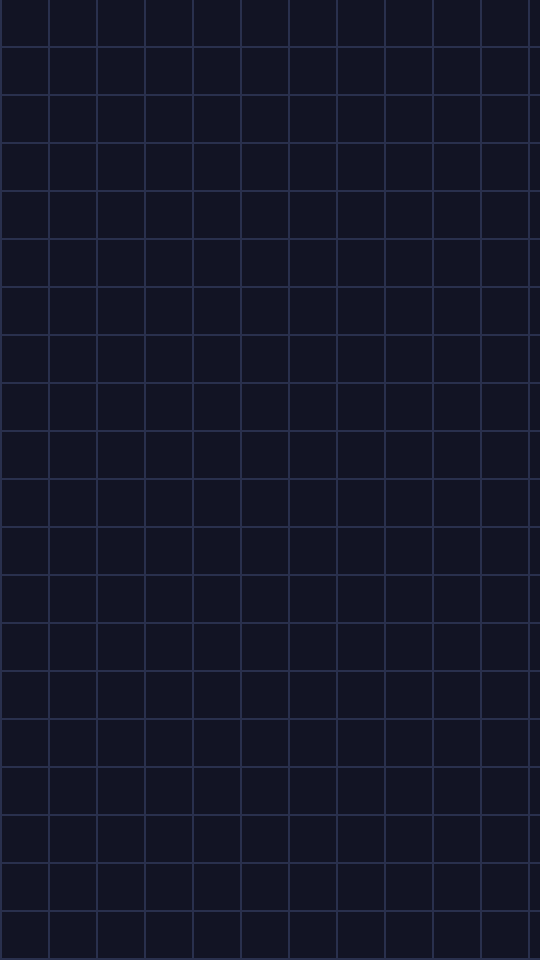
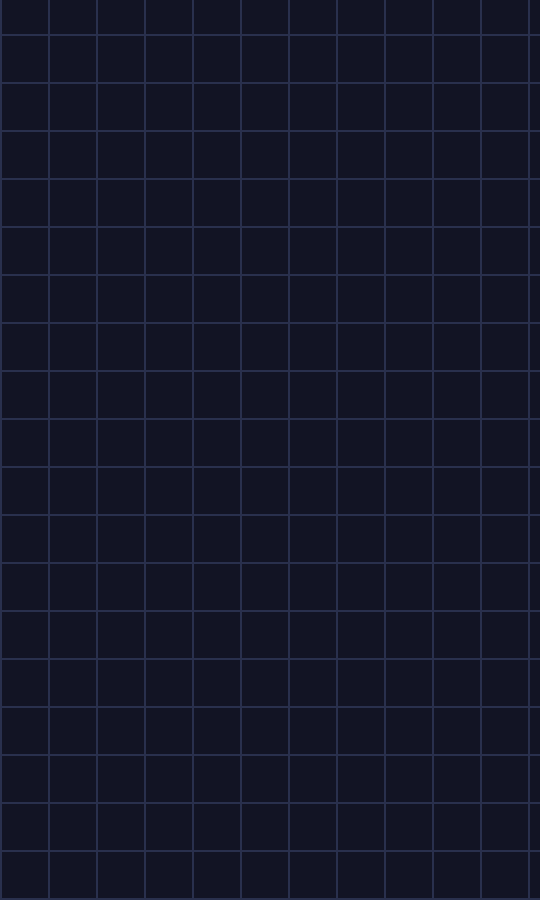
260912_맵을 하나로 + 가림막과 보상 이미지 크기를 처음부터 맞춤
1. 좁은 맵(2번) 삭제

쓰는 곳이 없어진 Tex_Shape_02와 그 생성 / 검증 / Addressable 등록도 함께 정리했다.
모양 마스크 기능 자체는 strShapeMask로 그대로 남아 있다.

해금 규칙은 표에 맵이 몇 개 실렸는지와 무관해야 하므로,
테스트가 두 줄짜리 표를 직접 만들어 쓰도록 바꿨다(Make_TwoMapTable).
맵이 하나가 됐다고 순차 해금이 검증에서 빠지면 안 된다.

2. 두 장의 크기를 처음부터 같게

가림막과 보상은 둘 다 그리드 크기로 늘려 깔린다. 그런데 배치 이미지가 540x960이고
그리드는 60x100칸(비율 0.6)이라 두 장 모두 눌린 채로 깔리고 있었다.
둘이 똑같이 눌려서 한쪽만 이상해 보이지는 않지만, 그림이 계속 어색했다.

배치 이미지를 그리드에서 만들어 내도록 바꿨다 — TEX_PIXEL_PER_CELL(9) 기준으로
60x100칸이면 540x900이고, 칸 하나가 정확히 9x9 픽셀이다.
늘리지도 줄이지도 않고, 사본을 찍을 때 나누어떨어지지 않아 생기는 줄도 없다.

비율이 어긋나면 눈으로 찾기 어려우므로 Validate Assets가 숫자로 잡게 했다.
실제 아트를 발주할 때도 이 비율만 지키면 된다.

검증 : 에셋 검증 통과 / PASS 283 FAIL 0

diff --git a/Assets/Editor/CProtoSetup.cs b/Assets/Editor/CProtoSetup.cs
@@ -34,7 +34,8 @@ namespace Client
         {
             "Tex_Mask_01", "Tex_Reward_01", "Tex_Reward_02", "Tex_Reward_03",
         };
-        private const string TEX_SHAPE_02 = "Tex_Shape_02";      // MapInfo.csv 2번 맵의 모양 마스크
+        // 260912_배치 이미지의 셀당 픽셀 수. 실제 아트가 들어오면 이 비율만 지키면 된다.
+        private const int TEX_PIXEL_PER_CELL = 9;
 
         // 260904_CSV 테이블. 파일명이 곧 Client.CCSVData_<파일명> 클래스 이름이다.
         private static readonly string[] ARR_CSV = { "EnemyInfo", "MapInfo", "UpgradeInfo", "SkillInfo", "EquipInfo" };
@@ -159,6 +160,7 @@ namespace Client
             iFail += Validate_CsvTables();
             iFail += Validate_LayerTextures();
             iFail += Validate_GameConfig();
+            iFail += Validate_LayerAspect();
 
             if (iFail == 0)
                 Debug.Log("[CProtoSetup] 에셋 검증 통과 — 프리팹 / 스프라이트 / CSV / Addressable 정상");
@@ -297,7 +299,6 @@ namespace Client
             for (int i = 0; i < ARR_LAYER_TEX.Length; ++i)
                 iFail += Validate_Texture(ARR_LAYER_TEX[i]);
 
-            iFail += Validate_Texture(TEX_SHAPE_02);
             return iFail;
         }
 
@@ -322,6 +323,35 @@ namespace Client
             }
 
             return iFail + Validate_AddressableEntry(strPath, strName, CAddressableLabel.TEXTURE);
+        }
+
+        // 260912_웨이브 이미지는 그리드 비율과 같아야 한다.
+        // 가림막과 보상은 둘 다 그리드 크기로 늘려 깔리므로, 원본 비율이 다르면 그림이 눌린다.
+        // 둘 다 똑같이 눌리기 때문에 '한쪽만 이상하다'로는 안 보이고 그냥 그림이 어색해진다 —
+        // 눈으로 찾기 어려운 종류라 여기서 숫자로 잡아 준다.
+        private static int Validate_LayerAspect()
+        {
+            CMapInfo cMapInfo = Load_MapInfo(1);
+            float fGridAspect = (float)cMapInfo.iGridWidth / cMapInfo.iGridHeight;
+
+            int iFail = 0;
+            for (int i = 0; i < ARR_LAYER_TEX.Length; ++i)
+            {
+                Texture2D tex = AssetDatabase.LoadAssetAtPath<Texture2D>($"{DIR_ART}/{ARR_LAYER_TEX[i]}.png");
+                if (tex == null)
+                    continue;   // 존재 여부는 Validate_LayerTextures가 본다
+
+                float fTexAspect = (float)tex.width / tex.height;
+                if (Mathf.Abs(fTexAspect - fGridAspect) <= 0.01f)
+                    continue;
+
+                Debug.LogError($"  FAIL  {ARR_LAYER_TEX[i]} 비율이 그리드와 다릅니다 "
+                             + $"({tex.width}x{tex.height} = {fTexAspect:F3} / 그리드 {fGridAspect:F3}). "
+                             + "그림이 눌려 보입니다.");
+                ++iFail;
+            }
+
+            return iFail;
         }
 
         // 260905_옵션 에셋. 없어도 게임은 기본값으로 돌지만, 값을 바꿔도 반영이 안 되는
@@ -440,13 +470,18 @@ namespace Client
             Write_Png(PATH_TEX_ENEMY, Make_CircleTexture(BODY_SIZE, Color.white));
             Import_AsSprite(PATH_TEX_ENEMY, BODY_SIZE);
 
-            // 배경: 실제 보상 카드 이미지가 들어갈 자리. 점령 시 드러나는 게 보이도록 알록달록하게.
-            const int BG_W = 540;
-            const int BG_H = 960;
-            Write_Png(PATH_TEX_BG, Make_RewardPlaceholder(BG_W, BG_H));
+            // 260912_배치 이미지는 그리드 비율에 정확히 맞춘다.
+            // 가림막과 보상은 둘 다 그리드 크기로 늘려 깔리므로(CGridRenderer.Fit_ToGrid),
+            // 원본 비율이 그리드와 다르면 그림이 눌려 보인다.
+            // 칸 하나가 정수 픽셀이 되게 맞추면 사본을 찍을 때 줄이 생기지도 않는다.
+            CMapInfo cMapInfo = Load_MapInfo(1);
+            int iBgW = cMapInfo.iGridWidth  * TEX_PIXEL_PER_CELL;
+            int iBgH = cMapInfo.iGridHeight * TEX_PIXEL_PER_CELL;
+
+            Write_Png(PATH_TEX_BG, Make_RewardPlaceholder(iBgW, iBgH));
             Import_AsSprite(PATH_TEX_BG, 100, true);
 
-            Create_LayerTextures(BG_W, BG_H);
+            Create_LayerTextures(iBgW, iBgH);
 
             // 260904_기믹 소환물. 탄은 작고 밝게, 거미줄은 성기게 비치도록 반투명하게.
             Write_Png(PATH_TEX_PROJECTILE, Make_CircleTexture(32, new Color(1f, 0.55f, 0.2f)));
@@ -536,10 +571,6 @@ namespace Client
                 // 가림막은 런타임에 픽셀을 읽어 마스크로 다시 찍으므로 Read/Write가 반드시 켜져 있어야 한다.
                 Import_AsSprite(strPath, 100, true);
             }
-
-            string strShapePath = $"{DIR_ART}/{TEX_SHAPE_02}.png";
-            Write_Png(strShapePath, Make_ShapeMask(iWidth, iHeight));
-            Import_AsSprite(strShapePath, 100, true);
         }
 
         /// <summary> 1웨이브를 덮는 마스크 — 격자 무늬가 옅게 깔린 어두운 막. </summary>
@@ -590,29 +621,6 @@ namespace Client
 
                     cColor.a = 1f;
                     tex.SetPixel(x, y, cColor);
-                }
-            }
-
-            tex.Apply();
-            return tex;
-        }
-
-        /// <summary> 맵 모양 마스크 예시 — 가운데를 세로로 잘라낸 모래시계 형태. </summary>
-        private static Texture2D Make_ShapeMask(int iWidth, int iHeight)
-        {
-            Texture2D tex = new Texture2D(iWidth, iHeight, TextureFormat.RGBA32, false);
-
-            for (int y = 0; y < iHeight; ++y)
-            {
-                float fT = (float)y / (iHeight - 1);
-                // 가운데(0.5)에서 가장 좁아지는 폭
-                float fHalf = Mathf.Lerp(0.5f, 0.22f, 1f - Mathf.Abs(fT - 0.5f) * 2f);
-
-                for (int x = 0; x < iWidth; ++x)
-                {
-                    float fU = (float)x / (iWidth - 1);
-                    bool bInside = Mathf.Abs(fU - 0.5f) <= fHalf;
-                    tex.SetPixel(x, y, bInside ? Color.white : Color.black);
                 }
             }
 
@@ -764,7 +772,6 @@ namespace Client
             for (int i = 0; i < ARR_LAYER_TEX.Length; ++i)
                 Regist_Addressable(cSettings, $"{DIR_ART}/{ARR_LAYER_TEX[i]}.png", ARR_LAYER_TEX[i], CAddressableLabel.TEXTURE);
 
-            Regist_Addressable(cSettings, $"{DIR_ART}/{TEX_SHAPE_02}.png", TEX_SHAPE_02, CAddressableLabel.TEXTURE);
 
             // 260904_CSV 테이블. Engine이 TextAsset 이름으로 파싱 클래스를 찾으므로 주소도 파일명과 맞춘다.
             for (int i = 0; i < ARR_CSV.Length; ++i)

diff --git a/Assets/Editor/CProtoTest.cs b/Assets/Editor/CProtoTest.cs
@@ -622,7 +622,7 @@ namespace Client
             const float LANDSCAPE = 16f / 9f;
 
             Vector2 vMap1 = new Vector2(7.2f, 12f);      // 60 x 100 셀 x 0.12
-            Vector2 vMap2 = new Vector2(6f, 10.5f);      // 40 x 70 셀 x 0.15
+            Vector2 vMap2 = new Vector2(6f, 10.5f);      // 더 작은 맵 (40 x 70 셀 x 0.15)
 
             // 띠를 쓰지 않을 때 — 세로 화면에서는 가로가 기준이 된다
             float fSize = CCameraFitter.Calc_Size(vMap1, PORTRAIT, 1f, 0f);
@@ -654,9 +654,9 @@ namespace Client
             Check("카메라 Y", Mathf.RoundToInt(fPosY * 100f), -106);
             Check("띠가 같으면 가운데", Mathf.Approximately(CCameraFitter.Calc_PositionY(fSize, 0.2f, 0.2f), 0f));
 
-            // 맵마다 다시 맞춰야 한다 — 좁은 맵을 맵 1 크기로 보면 작게 나온다
+            // 맵마다 다시 맞춰야 한다 — 더 작은 맵을 맵 1 크기로 보면 작게 나온다
             float fSize2 = CCameraFitter.Calc_Size(vMap2, PORTRAIT, fUsable, 0f);
-            Check("좁은 맵은 더 가깝다", fSize2 < fSize);
+            Check("작은 맵은 더 가깝다", fSize2 < fSize);
 
             // 여백은 두 기준 중 이긴 쪽에 그대로 더해진다
             Check("여백만큼 멀어진다",
@@ -969,12 +969,33 @@ namespace Client
             Check("웨이브 수가 0이면 빈 문자열", CStar_Utility.Get_Text(1, 0) == string.Empty);
         }
 
+        /// <summary> 해금 규칙만 보기 위한 두 줄짜리 MapInfo. 실제 표와 섞이지 않는다. </summary>
+        private static CCSVData_MapInfo Make_TwoMapTable()
+        {
+            const string TAB = "\t";
+            string strCsv =
+                  string.Join(TAB, "iMapID", "strMapName", "iGridWidth", "iGridHeight", "fCellSize",
+                                   "iBorderThick", "iLife", "fPlayerSpeed", "iWaveCount", "strShapeMask",
+                                   "strLayerTex", "strWaveEnemy", "strWaveClearRatio", "strWaveTimeLimit",
+                                   "iCoinPerStar", "NONE") + "\n"
+                + string.Join(TAB, "901", "테스트A", "20", "20", "0.1", "1", "3", "8", "1", "-",
+                                   "Tex_Mask_01|Tex_Reward_01", "101*1", "0.6", "60", "10", "") + "\n"
+                + string.Join(TAB, "902", "테스트B", "20", "20", "0.1", "1", "3", "8", "1", "-",
+                                   "Tex_Mask_01|Tex_Reward_01", "101*1", "0.6", "60", "10", "");
+
+            CCSVData_MapInfo cTable = new CCSVData_MapInfo();
+            cTable.Read_CSVData(new TextAsset(strCsv));
+            return cTable;
+        }
+
         private static void Test_StageProgress()
         {
-            CCSVData_MapInfo cTable = Load_MapTable();
+            // 260912_해금은 '표의 순서'를 보는 규칙이라 표에 몇 개가 실렸는지와 무관해야 한다.
+            // 맵이 하나뿐이어도 규칙은 계속 검증되도록 여기서 두 줄짜리 표를 만들어 쓴다.
+            CCSVData_MapInfo cTable = Make_TwoMapTable();
             if (cTable == null || cTable.COUNT < 2)
             {
-                Check("MapInfo.csv에 맵이 2개 이상", false);
+                Check("임시 맵 표 생성", false);
                 return;
             }
 

diff --git a/Assets/Script/00.GameManager/CGameManager.cs b/Assets/Script/00.GameManager/CGameManager.cs
@@ -457,7 +457,7 @@ namespace Client
                 cSkill != null ? m_cProgressManager.Get_SkillLevel(cSkill.eType) : 0);
 
             // 260912_맵마다 크기가 다르므로 깔고 나서 맞춘다.
-            // 에디터에서 잡아 둔 카메라 크기는 맵 1 기준이라 좁은 맵이 작게 나온다.
+            // 에디터에서 잡아 둔 카메라 크기는 맵 1 기준이라 크기가 다른 맵이 어긋난다.
             m_cCameraFitter.Fit(m_cStageManager.GRID.WORLD_SIZE);
 
             m_cStageManager.OnStateChanged += On_StageStateChanged;

diff --git a/CLAUDE.md b/CLAUDE.md
@@ -182,6 +182,14 @@ CAddressableLabel   PREFAB="Prefabs", TEXTURE="Images", CSV="CSV"
 두 장은 `Fit_ToGrid` 하나로 같은 자리·같은 크기에 놓는다. 한쪽만 원본 비율을 지키면
 역할이 바뀔 때 그림이 어긋난다.
 
+**원본 비율은 그리드 비율과 같아야 한다**(260912). 두 장 다 그리드 크기로 늘려 깔리므로
+비율이 다르면 그림이 눌린다. 둘이 똑같이 눌리기 때문에 '한쪽만 이상하다'로는 안 보이고
+그냥 어색해질 뿐이라 눈으로 찾기 어렵다 — `Validate Assets`의 `Validate_LayerAspect`가 숫자로 잡는다.
+
+배치 이미지는 `CProtoSetup.TEX_PIXEL_PER_CELL`(현재 9)로 그리드에서 만들어 낸다.
+맵 1이면 60x100칸 → **540x900**이고, 칸 하나가 정확히 9x9 픽셀이다.
+실제 아트를 발주할 때도 **이 비율(가로:세로 = 칸 수 비율)만 지키면 된다.**
+
 > 원본 해상도로 올리면서 마스크 관련 메모리가 맵 1 기준 약 1MB에서 6MB로 늘었고,
 > 점령 때 도는 전체 갱신 비용도 같은 비율로 는다. 성능이 문제가 되면
 > **`PIXEL_PER_CELL`을 되살리는 게 아니라 원본 이미지 해상도를 낮추는 쪽으로** 잡을 것.
@@ -203,6 +211,8 @@ COVER (0.5초)  알파 0→1          다음 가림막이 덮임 (그 사이 Res
 (`CGridRenderer.Set_CoverAlpha`). 매 프레임 픽셀을 다시 올리면 모바일에서 감당이 안 된다.
 
 #### 맵 모양 마스크
+> 260912_예시로 쓰던 2번 맵(`좁은 맵`)과 `Tex_Shape_02`를 지웠다. **지금 맵은 하나뿐이다.**
+> 기능 자체는 그대로 남아 있으니 쓰려면 텍스처를 만들어 `strShapeMask`에 적으면 된다.
 `strShapeMask` 텍스처의 밝은 픽셀만 플레이 가능한 칸이 되고, 나머지는 `CELL_STATE.BLOCK`이 된다.
 BLOCK은 플레이어·몬스터 모두 못 들어가고 점령률 분모에서도 빠진다. `-`이면 직사각형 전체.
 
@@ -257,6 +267,7 @@ CInputHandler ── CVirtualJoystick   (터치/마우스 → 4방향)
 `CStage_Manager.OnStateChanged`로 결과만 올려보내고, 기록 저장과 화면 전환은 매니저가 한다.
 
 **해금은 순차** — `MapInfo.csv`에 적힌 **순서**로 바로 앞 맵을 깨야 다음이 열린다.
+맵이 하나뿐이어도 규칙은 계속 검증된다 — `CProtoTest.Make_TwoMapTable`이 두 줄짜리 표를 따로 만들어 쓴다.
 ID 산술이 아니라 표의 순서를 본다. 기획이 중간에 맵을 끼워 넣어도 ID를 다시 매기지 않아도 된다.
 `GameConfig.asset`의 `m_bUnlockAllStage`를 켜면 규칙을 무시하고 전부 열린다(2-9).
 
@@ -369,7 +380,7 @@ Engine 레이어가 UI까지 Tick하는지 확실하지 않아 이 클래스만 
 각각 구해 **큰 쪽**을 쓴다.
 
 맵마다 크기가 다르므로 **스테이지를 깔 때마다 다시 맞춘다**(`CGameManager`).
-에디터의 `Setup_Camera`가 잡아 두는 값은 맵 1 기준이라 좁은 맵이 작게 나온다.
+에디터의 `Setup_Camera`가 잡아 두는 값은 맵 1 기준이라 크기가 다른 맵이 어긋난다.
 
 #### 화면을 세 띠로 나눈다
 `CGameConfig`의 `m_fUIReserveTop`(0.10) / `m_fUIReserveBottom`(0.22)만큼은 맵이 쓰지 않는다.
